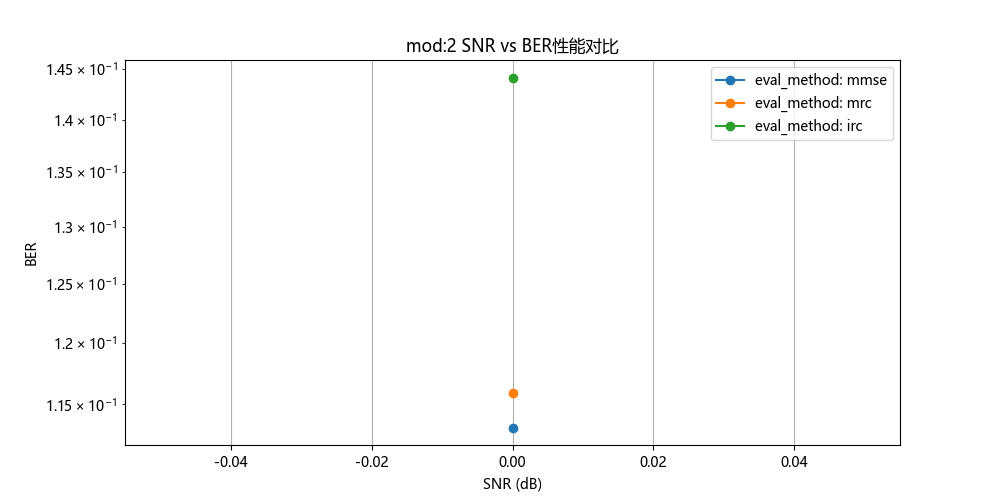
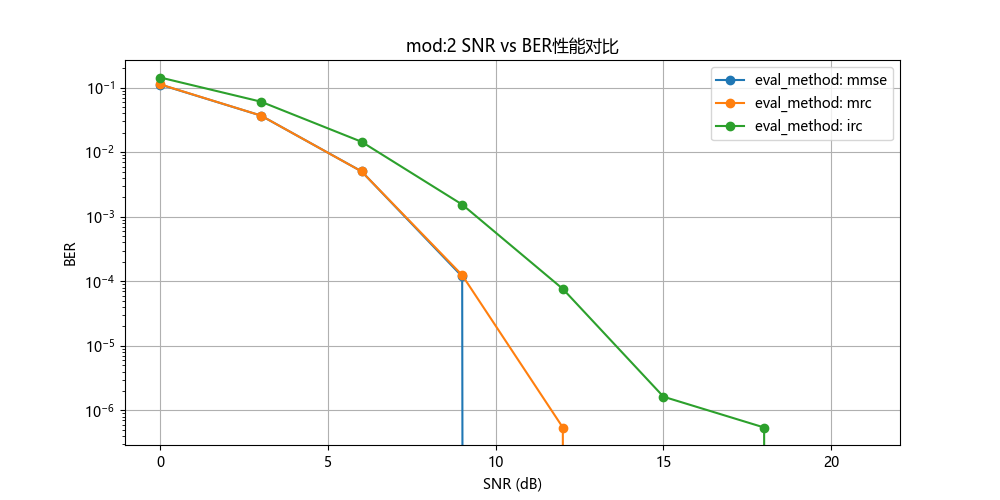
update winsize

diff --git a/src/ofdm_rx.py b/src/ofdm_rx.py
@@ -354,11 +354,11 @@ def estimate_channel(
     
     # 使用滑动平均计算每个窗口的信道响应，窗口大小为2*cfg.pilot_spacing+1
     if cfg.mod_order == 2:
-        window_size = 1
+        window_size = cfg.win_size[0]
     elif cfg.mod_order == 4:
-        window_size = 2
+        window_size = cfg.win_size[1]
     else:
-        window_size = 4
+        window_size = cfg.win_size[2]
     h_est_smooth = np.zeros_like(h_est)
     for i in range(len(pilot_symbol_indices)):
         for j in range(cfg.n_subcarrier):
@@ -507,11 +507,11 @@ def noise_var_estimate(
 
     # 滑动平均平滑
     if cfg.mod_order == 2:
-        window_size = 1
+        window_size = cfg.win_size[0]
     elif cfg.mod_order == 4:
-        window_size = 2
+        window_size = cfg.win_size[1]
     else:
-        window_size = 4
+        window_size = cfg.win_size[2]
     noise_smooth = np.zeros_like(noise_est)
     power_smooth = np.zeros_like(power_est)
     for i in range(n_pil):
@@ -606,11 +606,11 @@ def noise_covariance_estimate(
                 cov_full[sc, :, :] = cov_interp[right[0], :, :]
 
     if cfg.mod_order == 2:
-        window_size = 1
+        window_size = cfg.win_size[0]
     elif cfg.mod_order == 4:
-        window_size = 2
+        window_size = cfg.win_size[1]
     else:
-        window_size = 4
+        window_size = cfg.win_size[2]
     cov_smooth = np.zeros_like(cov_full)
     for j in range(n_sub):
         start = max(0, j - cfg.pilot_spacing)

diff --git a/experiments/run_experiments.py b/experiments/run_experiments.py
@@ -67,9 +67,9 @@ def main():
     # 加载配置
     config_path = Path(__file__).parent.parent / "config.yaml"
     cfg = load_config(config_path)
-    snr_db_list = np.arange(0, 31, 3)
+    snr_db_list = np.arange(10, 30, 3) 
     num_trials = 100  # 每个SNR点的仿真次数
-    eval_methods = ['mmse','mrc','irc']  # 评估方法列表
+    eval_methods = [[0,0,0],[1,1,1],[2,2,2],[4,4,4],[8,8,8]]  # 评估方法列表
     
     # 创建结果目录
     results_dir = Path(__file__).parent.parent / "results"
@@ -79,8 +79,8 @@ def main():
     all_results = {}
     
     # 为每种方法运行仿真
-    for eval_method in eval_methods:
-        cfg.equ_method = eval_method
+    for i,eval_method in enumerate(eval_methods):
+        cfg.win_size = eval_method
         # 运行不同SNR下的实验
         results = []
         for snr_db in snr_db_list:
@@ -99,7 +99,7 @@ def main():
             if avg_ber == 0:
                 break
         # 存储结果
-        all_results[eval_method] = results
+        all_results[i] = results
         
         # 保存结果到文件
         results_file = results_dir / f"results_{cfg.channel_type}_{eval_method}.pkl"

diff --git a/src/config.py b/src/config.py
@@ -41,6 +41,7 @@ class OFDMConfig:
     interp_method: str = 'linear'      # 信道插值方式：'linear'或'nearest'
     est_time: str = 'fft_ml'           # 定时偏移估计方法：'fft_ml'（FFT最大似然）/'diff_phase'（相位差）或'ml_then_phase'（两步法）
     equ_method: str = 'mmse'          # 信道均衡方法：'mmse'（最小均方误差）或'mrc'（最大比率合并）或'irc'
+    win_size: List[int] = field(default_factory=lambda: [8,1,2])  # 滑动窗口大小（用于信道估计）qpsk/16qam/64qam分别对应的窗口大小
     # 同步配置
     sync_method: str = 'auto'          # 同步方法：'auto'（自动）或'manual'（手动）
 
